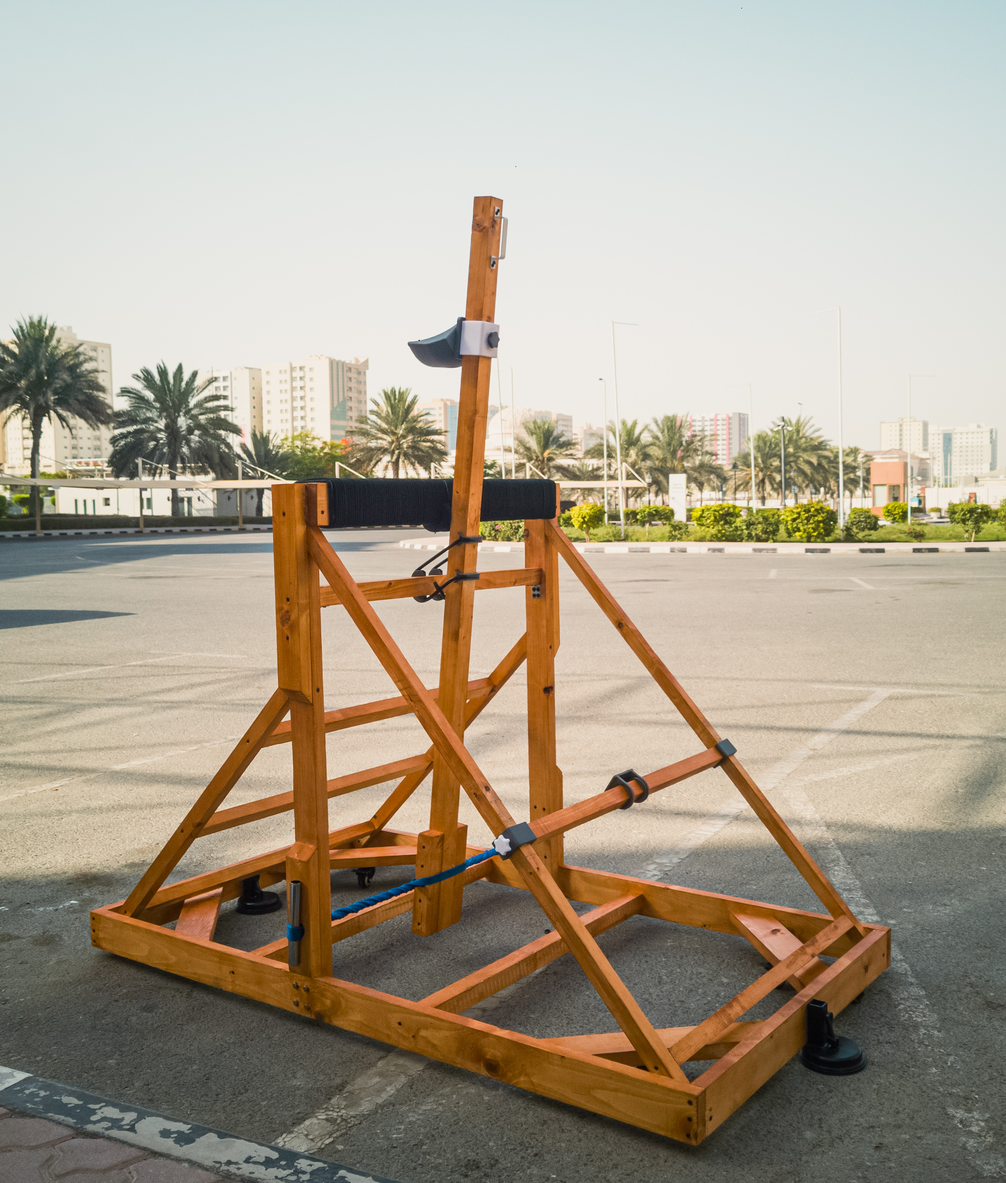
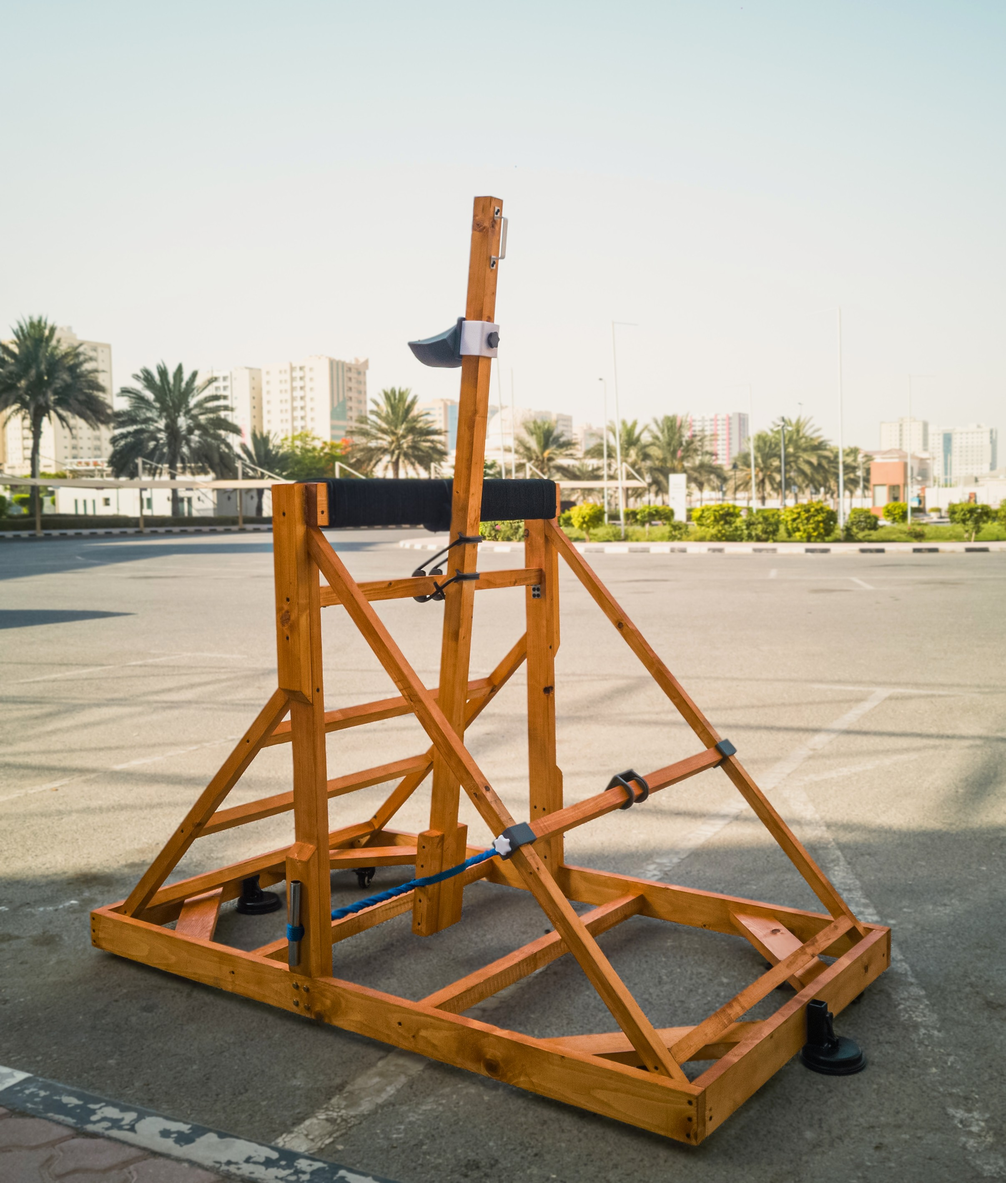
a

diff --git a/script.js b/script.js
@@ -18,7 +18,7 @@ const projects = {
             id:          'robotic-arm',
             title:       'Color-Sorting Robotic Arm',
             category:    'Robotics & Embedded',
-            image:       'Media/Robotic Arm/Arm 2.jpg',
+            image:       'Media/Robotic Arm/Arm 1.jpg',
             description: 'Fully designed in Fusion 360. 4-bar linkages keep the end-effector level, herringbone 2:1 gear at the base, parallel servo gripper, single-flange bearings for smooth low-backlash joints. PIC18 + TCS3200 color sensor drives automated color sorting.',
             tags:        ['Fusion 360', 'PIC18', '28BYJ-48', '3D Print', 'TCS3200'],
             link:        'projects/robotic-arm.html'
@@ -45,7 +45,7 @@ const projects = {
             id:          'edp-2025',
             title:       'Precision Catapult — 2nd Place',
             category:    '3D Design & Fabrication',
-            image:       'Media/EDP 2025/Final Image.jpg',
+            image:       'Media/EDP 2025/Final Image wide.png',
             description: 'IEEE Student Day UAE — Engineering Design Project 2025. No electronics allowed. Adjustable arm stop for range control, dual-profile ball holder for two projectile sizes. Wood frame + 3D-printed components designed in Fusion 360.',
             tags:        ['EDP 2025', 'Fusion 360', '3D Print', 'Mechanical'],
             link:        'projects/edp-2025.html'
@@ -54,7 +54,7 @@ const projects = {
             id:          'corexy-printer',
             title:       'Custom CoreXY 3D Printer',
             category:    '3D Design & Fabrication',
-            image:       'Media/Custom CoreXy/Main.png',
+            image:       'Media/Custom CoreXy/Main 2.jpg',
             description: 'Built from salvaged parts on a community CoreXY frame design. Several mechanical components re-designed from scratch to match specific Components.',
             tags:        ['3D Printing', 'Fusion 360', 'Mechanical Design', 'Salvaged Parts'],
             link:        'projects/corexy.html'

diff --git a/styles.css b/styles.css
@@ -458,9 +458,15 @@ main {
     grid-column: span 2;
 }
 
-/* Card 4: wide bottom-right — pinned so cards 5+6 auto-fill the left */
+/* Card 4: wide bottom-right — pinned so cards 5+6 auto-fill left */
 .projects-bento .project-card:nth-child(4) {
     grid-column: 3 / span 2;
+}
+
+/* Wide cards span 2 cols — use 5:3 so image height matches the 4:5 narrow cards */
+.projects-bento .project-card:nth-child(1) .project-image-wrapper,
+.projects-bento .project-card:nth-child(4) .project-image-wrapper {
+    aspect-ratio: 5/3;
 }
 
 /* Tablet */
@@ -496,6 +502,7 @@ main {
 .project-card {
     display: flex;
     flex-direction: column;
+    height: 100%;
     background: var(--surface);
     border: 1px solid var(--border);
     border-top: 3px solid var(--border);
@@ -518,20 +525,20 @@ main {
     overflow: hidden;
     background: linear-gradient(135deg, #141414, #1e1e1e);
     position: relative;
-    min-height: 120px; /* fallback height when card has no image */
+    flex: 1;
+    min-height: 120px;
 }
 
 .project-image {
     width: 100%;
-    height: auto;
+    height: 100%;
+    object-fit: cover;
     display: block;
-    filter: grayscale(15%) brightness(0.9);
-    transition: transform 0.4s ease, filter 0.3s ease;
+    transition: transform 0.4s ease;
 }
 
 .project-card:hover .project-image {
     transform: scale(1.04);
-    filter: grayscale(0%) brightness(1);
 }
 
 
@@ -540,7 +547,6 @@ main {
     display: flex;
     flex-direction: column;
     gap: 0.5rem;
-    flex: 1;
 }
 
 .project-category {
@@ -565,7 +571,6 @@ main {
     font-size: 0.82rem;
     line-height: 1.65;
     color: var(--muted);
-    flex: 1;
     margin-top: 0.2rem;
 }
 

diff --git a/projects/corexy.html b/projects/corexy.html
@@ -149,7 +149,7 @@
 
             <div class="img-grid img-grid-2">
                 <div class="img-cell img-cell-tall">
-                    <img src="../Media/Custom CoreXy/IMG20251107010233.jpg" alt="Later stage — enclosure and panels">
+                    <img src="../Media/Custom CoreXy/Main 2.jpg" alt="Later stage — enclosure and panels">
                     <div class="img-cell-caption">Printer in completed stage</div>
                 </div>
                 <div class="img-cell img-cell-tall">
